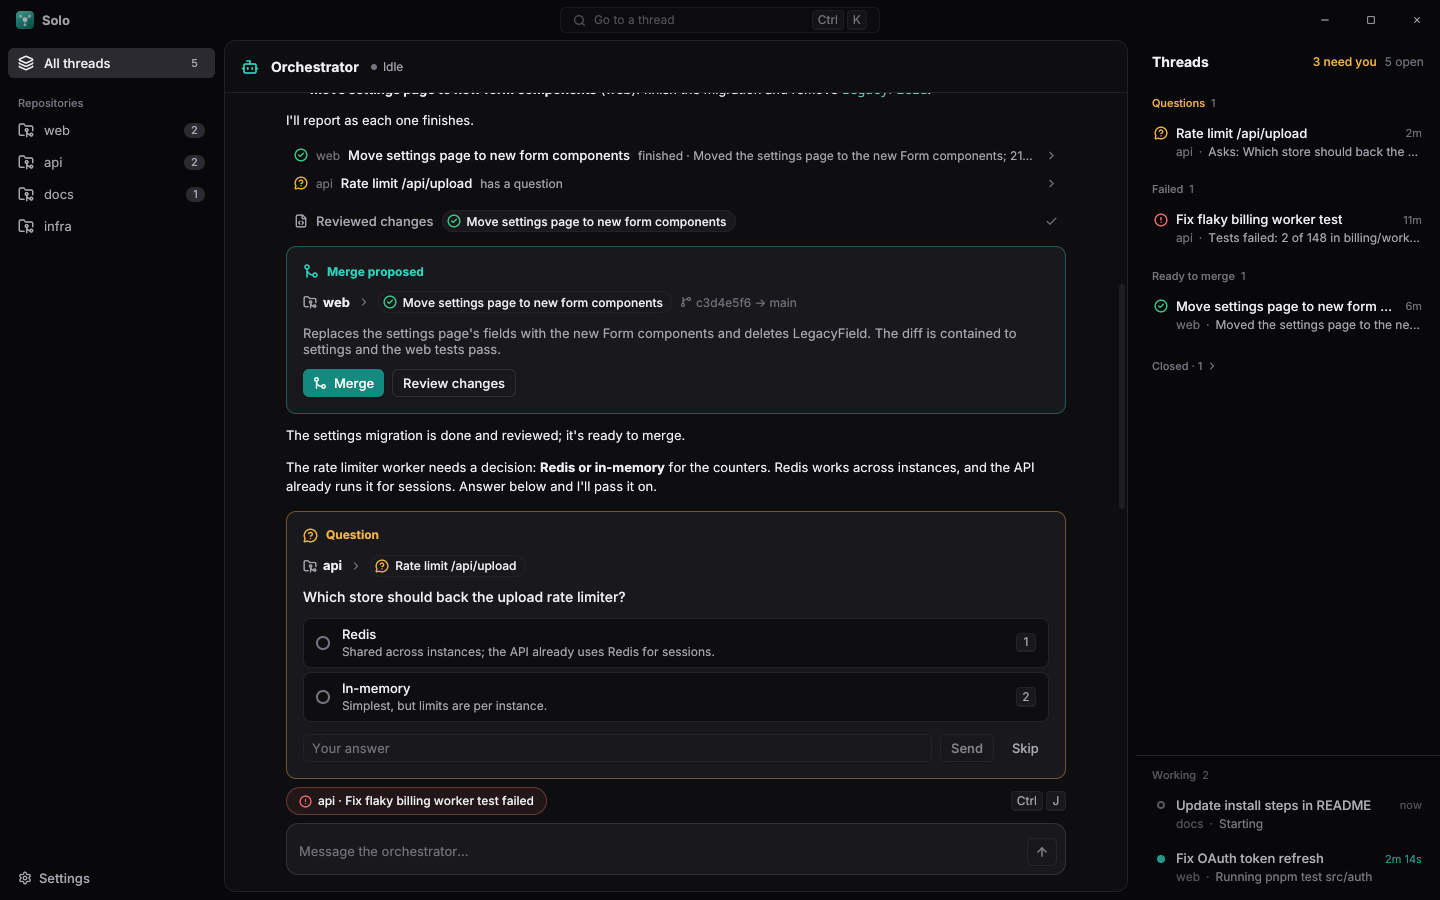
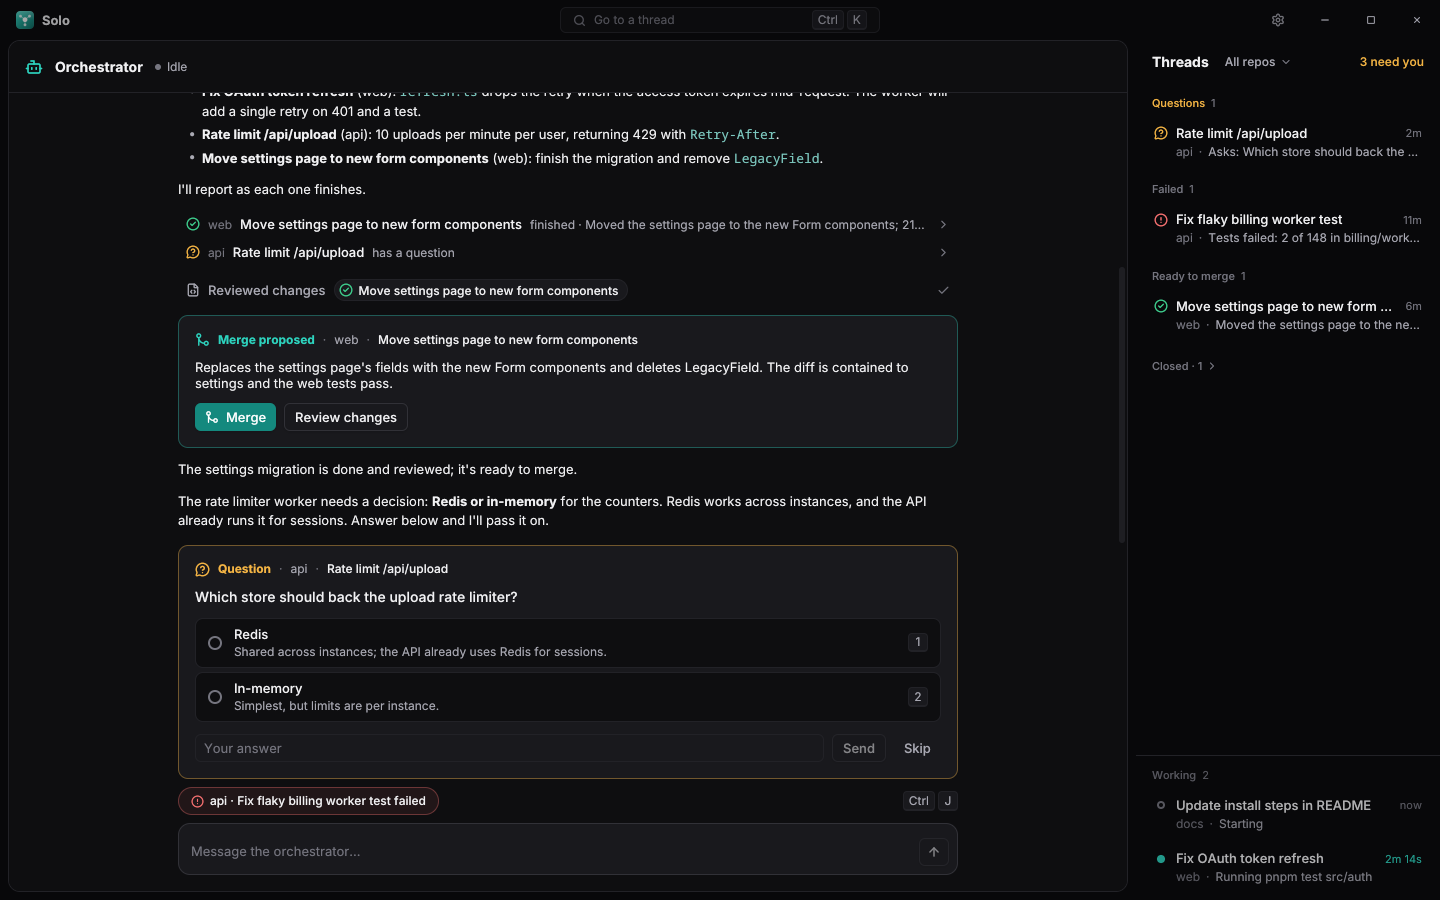
feat(gui)!: drop the repository sidebar; one-line card headers
The sidebar of repository folders is gone: it only filtered the rail
and repeated its counts. Settings and the usage warning move into the
title bar, the rail gets a repository menu when its threads span
several repositories, and Settings lists the repositories its scan found.
The orchestrator panel takes the freed width.

Merge and question cards open with one line, type then repository then
thread title (which opens the thread), followed by their content.

BREAKING CHANGE: there is no sidebar; filter threads from the rail's menu.

diff --git a/internal/gui/app.go b/internal/gui/app.go
@@ -20,9 +20,8 @@ import (
 )
 
 const (
-	sidebarWidth = 224
-	railWidth    = 304
-	itemLimit    = 400 // transcript items loaded per thread
+	railWidth = 304
+	itemLimit = 400 // transcript items loaded per thread
 )
 
 // App is the window's state.
@@ -239,10 +238,8 @@ func (a *App) Root(ctx *ui.Context) ui.Element {
 	}
 	return root.
 		Child(a.titleBar(ctx)).
-		Child(ui.Div().Row().Grow(1).MinHeight(ui.Px(0)).
-			Child(a.sidebar(ctx)).
-			Child(ui.Div().Column().Grow(1).Basis(ui.Px(0)).MinWidth(ui.Px(0)).Height(ui.Full).ClipContent().
-				Child(ui.Component(a.center)))).
+		Child(ui.Div().Column().Grow(1).MinHeight(ui.Px(0)).PaddingLeft(space2).ClipContent().
+			Child(ui.Component(a.center))).
 		Child(ui.Component(a.settingsDialog)).
 		Child(ui.Component(a.confirmDialog)).
 		Child(ui.CommandPalette(a.palette).ItemsOnly().Placeholder("Go to a thread").Items(a.paletteItems)).
@@ -261,11 +258,33 @@ func (a *App) titleBar(ctx *ui.Context) ui.Element {
 		Child(ui.Icon(icons.Search).Size(13).Color(t.TextSubtle)).
 		Child(ui.Text("Go to a thread").FontSize(12).TextColor(t.TextSubtle).Grow(1)).
 		Child(ui.Kbd("Ctrl+K"))
+	var trailing []ui.Element
+	// Claude's usage shows only when it matters.
+	if rate := a.rate.Get(); rate.Kind == agent.EventRateLimit && rate.Status != "allowed" {
+		status, c := "Near the usage limit", t.Warning
+		if rate.Status == "rejected" {
+			status, c = "Usage limit reached", t.Danger
+		}
+		trailing = append(trailing, ui.Div().Row().Align(ui.Center).Gap(6).PaddingX(space2).Height(ui.Px(24)).Radius(12).
+			Background(c.Alpha(0.12)).
+			Child(dot(c, 6)).
+			Child(ui.Text(status).FontSize(12).Medium().TextColor(c)))
+	}
+	if a.cfg.Get().ShowCosts {
+		var cost float64
+		for _, th := range a.threads.Get() {
+			cost += th.CostUSD
+		}
+		trailing = append(trailing, ui.Div().Tooltip("Spent across threads").Child(subtle(ctx, fmt.Sprintf("$%.2f", cost))))
+	}
+	trailing = append(trailing, ui.IconButton(icons.Settings).Ghost().Small().Label("Settings").Tooltip("Settings").
+		Key("open-settings").OnClick(func() { a.settings.Set(true) }))
 	return ui.TitleBar().Height(ui.Px(40)).
 		Child(ui.Div().Row().Align(ui.Center).Gap(space2).PaddingLeft(space4).
 			Child(brandMark(18)).
 			Child(ui.Text("Solo").FontSize(13).Semibold())).
-		Center(find)
+		Center(find).
+		Trailing(trailing...)
 }
 
 // inset is a content panel: rounded, a step off the window background, with a hairline border.
@@ -309,7 +328,7 @@ func (a *App) center(ctx *ui.Context) ui.Element {
 	default:
 		// Between the rail's width and the panel's, in pixels of the space the split has.
 		w, _ := ctx.WindowSize()
-		target := (w - sidebarWidth) * a.panelGoal / 100
+		target := (w - space2) * a.panelGoal / 100
 		px := railWidth + (target-railWidth)*anim
 		pane = pane.Size(ui.Px(px)).Min(ui.Px(px)).Max(ui.Px(px))
 	}
@@ -385,66 +404,7 @@ func (a *App) animatePanel(to float32, done func()) {
 	step(1)
 }
 
-// sidebar lists the repositories; choosing one filters the thread rail.
-func (a *App) sidebar(ctx *ui.Context) ui.Element {
-	threads := a.threads.Get()
-	open := map[string]int{}
-	for _, th := range threads {
-		if th.IsWorker && !core.Finished(th.Status) {
-			open[th.RepoPath]++
-		}
-	}
-	total := 0
-	for _, n := range open {
-		total += n
-	}
-	items := []ui.SidebarItem{
-		{Key: "orchestrator", Label: "All threads", Icon: icons.Layers, Badge: total},
-		ui.SidebarHeading("Repositories"),
-	}
-	repos := a.repos.Get()
-	for _, r := range repos {
-		items = append(items, ui.SidebarItem{Key: "repo:" + r, Label: filepath.Base(r), Icon: icons.FolderGit2, Badge: open[r]})
-	}
-	sb := ui.Sidebar(a.navSel, items...).Label("Repositories").Width(ui.Px(sidebarWidth)).NoIndicator().
-		Footer(a.sidebarFooter(ctx))
-	if len(repos) == 0 {
-		sb = sb.Footer(ui.Div().Column().Gap(space3).
-			Child(ui.Div().Column().Gap(space2).PaddingX(space2 + 2).
-				Child(caption(ctx, "No repositories yet. Add the folders that hold your projects.")).
-				Child(ui.Button("Add folders").Icon(icons.Plus).Secondary().Small().OnClick(func() { a.settings.Set(true) }))).
-			Child(a.sidebarFooter(ctx)))
-	}
-	return sb
-}
-
-func (a *App) sidebarFooter(ctx *ui.Context) ui.Element {
-	t := ctx.Theme()
-	info := ui.Div().Column().Gap(2).PaddingX(space2 + 2).PaddingY(space1)
-	// Claude's usage shows only when it matters.
-	if rate := a.rate.Get(); rate.Kind == agent.EventRateLimit && rate.Status != "allowed" {
-		status, c := "Near the usage limit", t.Warning
-		if rate.Status == "rejected" {
-			status, c = "Usage limit reached", t.Danger
-		}
-		info = info.Child(ui.Div().Row().Align(ui.Center).Gap(6).
-			Child(dot(c, 6)).
-			Child(ui.Text(status).FontSize(12).Medium()))
-	}
-	if a.cfg.Get().ShowCosts {
-		var cost float64
-		for _, th := range a.threads.Get() {
-			cost += th.CostUSD
-		}
-		info = info.Child(caption(ctx, fmt.Sprintf("$%.2f spent across threads", cost)))
-	}
-	return ui.Div().Column().Gap(space2).
-		Child(info).
-		Child(ui.Button("Settings").Icon(icons.Settings).Ghost().Small().OnClick(func() { a.settings.Set(true) }).
-			Key("open-settings"))
-}
-
-// repoFilter is the repository the rail shows, or "" for all.
+// repoFilter is the repository the rail shows, or "" for all (set from the rail's repository menu).
 func (a *App) repoFilter() string {
 	sel := a.navSel.Get()
 	if len(sel) > 5 && sel[:5] == "repo:" {

diff --git a/internal/gui/chat.go b/internal/gui/chat.go
@@ -591,11 +591,8 @@ func (a *App) proposalCard(ctx *ui.Context, d core.ProposalData) ui.Element {
 	}
 	return ui.Div().Column().Gap(space3).Padding(space4).Radius(radiusL).Background(t.Surface).
 		Border(1, brand.Alpha(0.35)).
-		Child(ui.Div().Row().Align(ui.Center).Gap(space2).
-			Child(ui.Icon(icons.GitMerge).Size(16).Color(brand)).
-			Child(ui.Text("Merge proposed").FontSize(12).Semibold().TextColor(brand).NoWrap())).
-		Child(a.threadContext(ctx, d.ThreadID, true)).
-		Child(ui.Text(d.Summary).FontSize(13).TextColor(t.TextMuted)).
+		Child(a.cardHeader(ctx, icons.GitMerge, brand, "Merge proposed", d.ThreadID)).
+		Child(ui.Text(d.Summary).FontSize(13).TextColor(t.Text)).
 		Child(actions)
 }
 
@@ -648,11 +645,15 @@ func (a *App) askForm(ctx *ui.Context, threadID, toolUseID string, qs []agent.Qu
 			answers.Set(next)
 			other.Set("")
 		}
-		head := ui.Div().Row().Align(ui.Center).Gap(space2).
-			Child(ui.Icon(icons.MessageCircleQuestionMark).Size(15).Color(t.Warning))
-		head = head.Child(ui.Text("Question").FontSize(12).Semibold().TextColor(t.Warning))
+		typ := "Question"
 		if len(qs) > 1 {
-			head = head.Child(subtle(ctx, fmt.Sprintf("%d of %d", len(cur)+1, len(qs))))
+			typ = fmt.Sprintf("Question %d of %d", len(cur)+1, len(qs))
+		}
+		var head ui.Element
+		if title != "" {
+			head = a.cardHeader(ctx, icons.MessageCircleQuestionMark, t.Warning, typ, threadID)
+		} else {
+			head = a.cardHeader(ctx, icons.MessageCircleQuestionMark, t.Warning, typ, "")
 		}
 		opts := ui.Div().Column().Gap(space1)
 		for i, o := range q.Options {
@@ -698,7 +699,6 @@ func (a *App) askForm(ctx *ui.Context, threadID, toolUseID string, qs []agent.Qu
 				}
 			}).
 			Child(head).
-			Child(ui.If(title != "", a.threadContext(ctx, threadID, false))).
 			Child(ui.Text(q.Question).FontSize(14).Medium()).
 			Child(opts).
 			Child(otherRow)
@@ -889,24 +889,25 @@ func (a *App) threadChip(ctx *ui.Context, id string) ui.Element {
 		Child(ui.Text(th.Title).FontSize(12).Medium().Truncate().MinWidth(ui.Px(0)))
 }
 
-// threadContext says which repository and thread a card is about: the repository, the thread (a chip
-// that opens it), and, for a merge, its branch and target.
-func (a *App) threadContext(ctx *ui.Context, id string, branch bool) ui.Element {
+// cardHeader is the one line atop a card: its type, then the repository and thread it is about (the
+// title opens the thread). threadID "" leaves out the repository and thread.
+func (a *App) cardHeader(ctx *ui.Context, icon *icons.Icon, c ui.Color, typ, threadID string) ui.Element {
 	t := ctx.Theme()
-	th, ok := a.thread(id)
-	if !ok {
-		return ui.Div()
+	row := ui.Div().Row().Align(ui.Center).Gap(space2).MinWidth(ui.Px(0)).
+		Child(ui.Icon(icon).Size(15).Color(c)).
+		Child(ui.Text(typ).FontSize(12).Semibold().TextColor(c).NoWrap())
+	th, ok := a.thread(threadID)
+	if threadID == "" || !ok {
+		return row
 	}
-	row := ui.Div().Row().Align(ui.Center).Gap(space2).Wrap().
-		Child(ui.Div().Row().Align(ui.Center).Gap(space1 + 2).Shrink(0).
-			Child(ui.Icon(icons.FolderGit2).Size(14).Color(t.TextMuted)).
-			Child(ui.Text(filepath.Base(th.RepoPath)).FontSize(13).Semibold())).
-		Child(ui.Icon(icons.ChevronRight).Size(12).Color(t.TextSubtle)).
-		Child(a.threadChip(ctx, id))
-	if branch && th.Branch != "" {
-		row = row.Child(ui.Div().Row().Align(ui.Center).Gap(space1).Shrink(0).
-			Child(ui.Icon(icons.GitBranch).Size(12).Color(t.TextSubtle)).
-			Child(subtle(ctx, branchLabel(th)+" → "+th.BaseBranch)))
-	}
-	return row
+	sep := func() ui.Element { return ui.Text("·").FontSize(12).TextColor(t.TextSubtle) }
+	return row.
+		Child(sep()).
+		Child(ui.Text(filepath.Base(th.RepoPath)).FontSize(12).TextColor(t.TextMuted).NoWrap()).
+		Child(sep()).
+		Child(ui.Div().MinWidth(ui.Px(0)).Cursor(ui.CursorPointer).
+			Role(access.RoleButton).Label("Open " + th.Title).TabIndex(0).Tooltip("Open this thread").
+			Hover(ui.Style{TextColor: t.Link}).
+			OnClick(func() { a.openThread(threadID, "conversation") }).
+			Child(ui.Text(th.Title).FontSize(12).Medium().Truncate()))
 }

diff --git a/internal/gui/rail.go b/internal/gui/rail.go
@@ -51,10 +51,6 @@ func (a *App) rail(ctx *ui.Context) ui.Element {
 		ctx.After(time.Second, func() { tick.Update(func(n int) int { return n + 1 }) })
 	}
 
-	headTitle := "Threads"
-	if filter != "" {
-		headTitle = filepath.Base(filter)
-	}
 	need := 0
 	for _, th := range open {
 		if needsUser(th) {
@@ -62,15 +58,16 @@ func (a *App) rail(ctx *ui.Context) ui.Element {
 		}
 	}
 	head := ui.Div().Row().Align(ui.Center).Gap(space2).PaddingX(space4).Height(ui.Px(44)).Shrink(0).
-		Child(ui.Text(headTitle).FontSize(14).Semibold().Truncate().Grow(1).MinWidth(ui.Px(0)))
+		Child(ui.Text("Threads").FontSize(14).Semibold().NoWrap()).
+		Child(ui.Div().Column().Justify(ui.Center).Shrink(1).MinWidth(ui.Px(0)).Child(a.repoMenu(ctx))).
+		Child(ui.Div().Grow(1))
 	if need > 0 {
 		label := fmt.Sprintf("%d need you", need)
 		if need == 1 {
 			label = "1 needs you"
 		}
-		head = head.Child(ui.Text(label).FontSize(12).Medium().TextColor(t.Warning))
+		head = head.Child(ui.Text(label).FontSize(12).Medium().TextColor(t.Warning).NoWrap())
 	}
-	head = head.Child(subtle(ctx, fmt.Sprintf("%d open", len(open))))
 
 	list := ui.Div().Column().Gap(space1).PaddingX(space2).PaddingBottom(space3)
 	if len(open) == 0 {
@@ -132,6 +129,45 @@ func (a *App) rail(ctx *ui.Context) ui.Element {
 		rail = rail.Child(working)
 	}
 	return rail
+}
+
+// repoMenu narrows the rail to one repository. It shows only when the threads span several, or a
+// filter is on.
+func (a *App) repoMenu(ctx *ui.Context) ui.Element {
+	t := ctx.Theme()
+	filter := a.repoFilter()
+	counts := map[string]int{}
+	var repos []string
+	for _, th := range a.threads.Get() {
+		if th.IsWorker && !core.Finished(th.Status) {
+			if counts[th.RepoPath] == 0 {
+				repos = append(repos, th.RepoPath)
+			}
+			counts[th.RepoPath]++
+		}
+	}
+	if len(repos) < 2 && filter == "" {
+		return ui.Div()
+	}
+	slices.SortFunc(repos, func(x, y string) int { return strings.Compare(filepath.Base(x), filepath.Base(y)) })
+	label := "All repos"
+	if filter != "" {
+		label = filepath.Base(filter)
+	}
+	trigger := ui.Div().Row().Align(ui.Center).Gap(space1).PaddingX(space2).Height(ui.Px(24)).Radius(radiusS).
+		Cursor(ui.CursorPointer).Hover(ui.Style{Background: t.SurfaceHover}).Shrink(1).MinWidth(ui.Px(0)).
+		Role(access.RoleButton).Label("Filter by repository: " + label).TabIndex(0).
+		Child(ui.Text(label).FontSize(12).Medium().TextColor(t.TextMuted).Truncate().MinWidth(ui.Px(0))).
+		Child(ui.Icon(icons.ChevronDown).Size(12).Color(t.TextSubtle))
+	return ui.DropdownMenu(trigger, func() []ui.MenuItem {
+		items := []ui.MenuItem{{Label: "All repos", Icon: icons.Layers, OnClick: func() { a.navSel.Set("orchestrator") }}}
+		for _, r := range repos {
+			path := r
+			items = append(items, ui.MenuItem{Label: fmt.Sprintf("%s  ·  %d", filepath.Base(r), counts[r]),
+				Icon: icons.FolderGit2, OnClick: func() { a.navSel.Set("repo:" + path) }})
+		}
+		return items
+	})
 }
 
 // needsUser reports whether a thread waits on the user: a question, a failure, or work to review.

diff --git a/internal/gui/settings.go b/internal/gui/settings.go
@@ -2,6 +2,8 @@ package gui
 
 import (
 	"context"
+	"fmt"
+	"path/filepath"
 	"slices"
 	"strings"
 
@@ -53,6 +55,16 @@ func (a *App) settingsDialog(ctx *ui.Context) ui.Element {
 		}
 		if len(folders.Get()) == 0 {
 			list = list.Child(caption(ctx, "No folders yet."))
+		}
+		// What the last scan found, so the user can check it.
+		if found := a.repos.Get(); len(found) > 0 {
+			names := make([]string, 0, len(found))
+			for _, r := range found {
+				names = append(names, filepath.Base(r))
+			}
+			list = list.Child(ui.Div().Row().Gap(space1 + 2).PaddingTop(space1).
+				Child(ui.Icon(icons.FolderGit2).Size(13).Color(t.TextSubtle)).
+				Child(caption(ctx, fmt.Sprintf("Found %d repositories: %s", len(found), strings.Join(names, ", "))).Grow(1)))
 		}
 		field := func(label, help string, control ui.Element) ui.Element {
 			return ui.Div().Column().Gap(space1 + 2).

diff --git a/internal/gui/thread.go b/internal/gui/thread.go
@@ -212,7 +212,7 @@ func (a *App) panelWidth(ctx *ui.Context) float32 {
 	if l := a.panelSize.Get(); l.Unit == ui.Px(0).Unit {
 		return l.Value
 	}
-	return (w-sidebarWidth)*a.panelGoal/100 - 44
+	return (w-space2)*a.panelGoal/100 - 44
 }
 
 func (a *App) composerFor(ctx *ui.Context, th core.ThreadView) ui.Element {

diff --git a/docs/ARCHITECTURE.md b/docs/ARCHITECTURE.md
@@ -13,7 +13,7 @@ Claude **worker threads**, each working in its own git worktree.
 | Repos | Settings hold a list of folders; every git repo found under them is known to the orchestrator. |
 | Workers | One git worktree + branch per thread, `bypassPermissions`, no sandbox. |
 | Landing | Orchestrator reports diff and test results; **you** click Merge. |
-| Layout | Projects sidebar · orchestrator chat · live thread rail; a thread opens in a slide-over. |
+| Layout | Title bar (go-to-thread, settings) · orchestrator chat · thread rail; opening a thread grows the rail into its panel. No repository sidebar: the rail filters by repository when threads span several. |
 | Persistence | SQLite (`modernc.org/sqlite`, no cgo), owned by Go. Claude's own transcripts are used only for `resume`. |
 
 ## Process model
@@ -130,7 +130,6 @@ Raw `SDKMessage`s are also appended to a per-session JSONL file for debugging an
 
 ## UI (jamb)
 
-- **Left:** repos grouped by configured folder, each with a thread count.
 - **Center:** orchestrator chat. Markdown via `jamb/markdown`; tool calls as collapsed chips;
   status chips; Merge and Question cards inline.
 - **Right rail:** thread cards (title, repo, status dot, elapsed time, last activity line).
